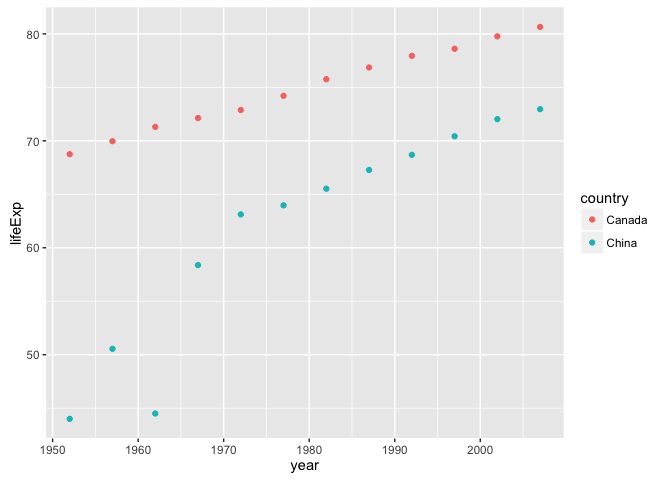
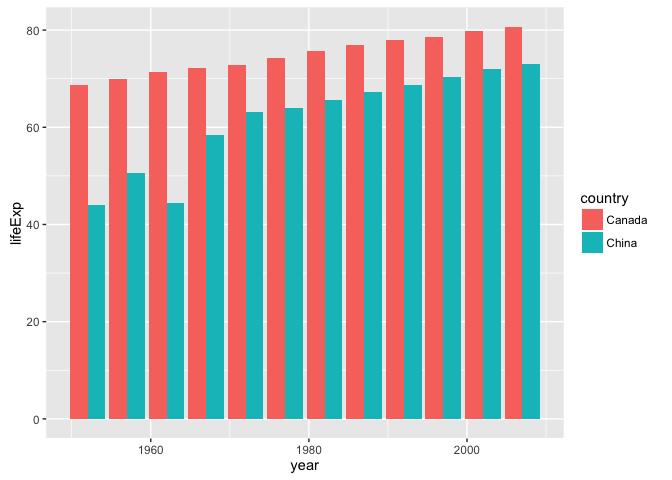
Homework 02

diff --git a/hw02_explore-gapminder-and-use-dplyr.md b/hw02_explore-gapminder-and-use-dplyr.md
@@ -257,11 +257,38 @@ densityplot(gapminder$lifeExp)
 ![](hw02_explore-gapminder-and-use-dplyr_files/figure-markdown_github/unnamed-chunk-11-3.png)
 
 ``` r
+ggplot(gapminder, mapping = aes(x = lifeExp)) +
+  geom_histogram(fill = "red")
+```
+
+    ## `stat_bin()` using `bins = 30`. Pick better value with `binwidth`.
+
+![](hw02_explore-gapminder-and-use-dplyr_files/figure-markdown_github/unnamed-chunk-11-4.png)
+
+``` r
+ggplot(gapminder, mapping = aes(x = lifeExp)) +
+  geom_freqpoly(color = "blue")
+```
+
+    ## `stat_bin()` using `bins = 30`. Pick better value with `binwidth`.
+
+![](hw02_explore-gapminder-and-use-dplyr_files/figure-markdown_github/unnamed-chunk-11-5.png)
+
+``` r
+ggplot(gapminder, mapping = aes(x = lifeExp)) +
+  geom_density(color = "green")
+```
+
+![](hw02_explore-gapminder-and-use-dplyr_files/figure-markdown_github/unnamed-chunk-11-6.png)
+
+``` r
 ggplot(data = gapminder, mapping = aes(x = continent, y = lifeExp)) +
   geom_boxplot()
 ```
 
-![](hw02_explore-gapminder-and-use-dplyr_files/figure-markdown_github/unnamed-chunk-12-1.png) As shown above, I plot a scatterplot of lifeExp and gdpPercap, a histogram, a densityplot and frequency polygon of life Exp, and a plot of lifeExp and continent.
+![](hw02_explore-gapminder-and-use-dplyr_files/figure-markdown_github/unnamed-chunk-12-1.png)
+
+As shown above, I plot a scatterplot of lifeExp and gdpPercap, 2 histograms, 2 densityplots and 2 frequency polygons of life Exp using different libraries, and a plot of lifeExp and continent.
 
 Use filter(), select(), and %&gt;%
 ----------------------------------
@@ -272,8 +299,8 @@ Use filter(), select(), and %&gt;%
 gapminder %>% 
    filter(country == "Canada" | country == "China") %>% 
    select(country, year, lifeExp) %>%
-   ggplot(aes(x = year, y = lifeExp, color = country)) +
-   geom_point()
+   ggplot(aes(x = year, y = lifeExp, fill = country)) +
+   geom_bar(stat = "identity", position = "dodge")
 ```
 
 ![](hw02_explore-gapminder-and-use-dplyr_files/figure-markdown_github/unnamed-chunk-13-1.png)
@@ -283,6 +310,7 @@ gapminder %>%
    filter(country == "Canada" | country == "China") %>% 
    select(country, year, pop) %>%
    ggplot(aes(x = year, y = pop, color = country)) +
+   scale_y_log10() +
    geom_point()
 ```
 
@@ -293,12 +321,14 @@ gapminder %>%
    filter(country == "Canada" | country == "China") %>% 
    select(country, year, gdpPercap) %>%
    ggplot(aes(x = year, y = gdpPercap, color = country)) +
-   geom_point()
+   scale_y_log10() +
+   geom_point() +
+   geom_path()
 ```
 
 ![](hw02_explore-gapminder-and-use-dplyr_files/figure-markdown_github/unnamed-chunk-13-3.png)
 
-As I am from China, I am interested in make some comparison between China and Canana. In the first graph, I compared the lifeExp of the two countries. We can see that the present life expectancy of China is still shorter than that of Canada although it has grown more rapidly in the last fifty years. In the second graph, I compared the pop of them. We can see that the pupulation of China has more than doubled while the population of Canada remains stable. In the third graph, I compared the gdpPercap between them. We can see that the GDP per capita of Canada has experienced a significant growth while China has only a slight growth in it.
+As I am from China, I am interested in make some comparison between China and Canana. In the first graph, I compared the lifeExp of the two countries. We can see that the present life expectancy of China is still shorter than that of Canada although it has grown more rapidly in the last fifty years. In the second graph, I compared the pop of them. We can see that the pupulation of China has more than doubled while the population of Canada remains stable. In the third graph, I compared the gdpPercap between them. We can see that the GDP per capita of both countries has experienced a significant growth.
 
 But I want to do more!
 ----------------------
@@ -435,7 +465,8 @@ gapminder %>%
   group_by(continent, year) %>% 
   summarise(avgLifeExp = mean(lifeExp, na.rm = TRUE)) %>% 
   ggplot(aes(x = year, y = avgLifeExp, color = continent)) +
-  geom_point()
+  geom_point() +
+  geom_path()
 ```
 
 ![](hw02_explore-gapminder-and-use-dplyr_files/figure-markdown_github/unnamed-chunk-17-1.png)
@@ -452,7 +483,7 @@ My questions
 
 1.  What is the difference among *typeof()*, *mode()* and *class()*?
 2.  When I apply *is.data.frame()* and *is.list()* to gapminder, both of them return true. So is it that *is.<type>(obj)* returns true as long as this object is of the given type or class.
-3.  In the below code chunk, I create a list. Why do *typeof(a)* and *mode(a)* not return list?
+3.  In the below code chunk, I create a vector. Why do *typeof(a)* and *mode(a)* not return vector?
 
 ``` r
 a = c(1, 2, 3)
